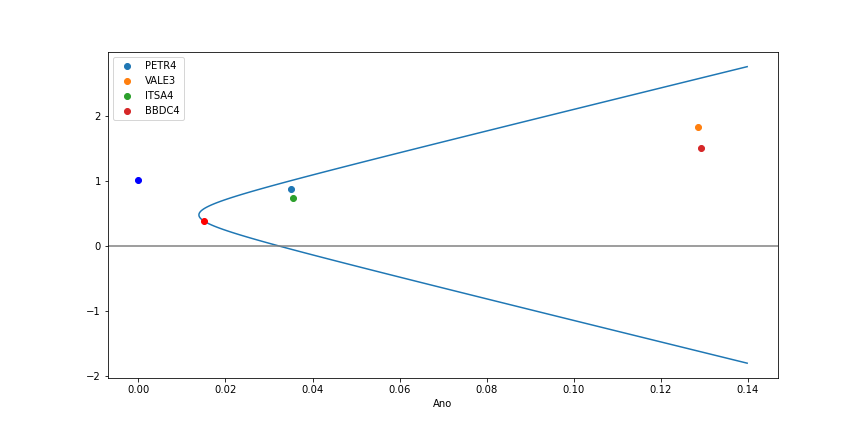
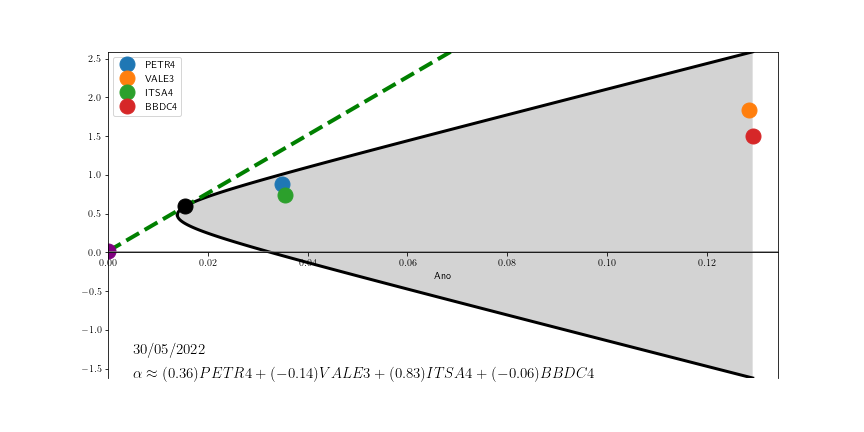
fronteira eficiente cesta brasileira

diff --git a/markowitz.py b/markowitz.py
@@ -15,10 +15,10 @@ from IPython.display import display
 from scipy.linalg import inv
 
 # Configurações matplotlib
-# plt.rc('text', usetex = True)
-# plt.rc('font', **{'family' : "sans-serif"})
-# params= {'text.latex.preamble' : [r'\usepackage{amsmath}']}
-# plt.rcParams.update(params)
+plt.rc('text', usetex = True)
+plt.rc('font', **{'family' : "sans-serif"})
+params= {'text.latex.preamble' : [r'\usepackage{amsmath}']}
+plt.rcParams.update(params)
 
 
 # font1 = {'size': 24,}
@@ -281,7 +281,7 @@ for x in stocks_data.index[period - 1:]:
 
 # Para obtermos o portfólio otimizado em relação ao Sharpe-ratio, precisamos do valor da taxa livre de risco naquele período. Vamos utilizar como de costume, a taxa selic
 
-# %%
+# %% Obtendo dados da taxa livre de risco
 selic_data = pd.read_csv('consulta_selic_b3.txt', sep='	', decimal=',')
 
 # Transformando as dadas de texto para datetime
@@ -298,7 +298,9 @@ full_data = full_data.set_index('Date')
 # queremos calcular o retorno da taxa selic ao longo da nossa janela de tempo. Para isso, vamos calcular o produto cumulativo de (1 + x/100) com x sendo o respectivo retorno diário da taxa selic 
 full_data['SELIC_daylly'] = full_data['Taxa SELIC'].apply(lambda x: (1 + x/100)**(1/365))
 
-full_data['r_SELIC'] = full_data['SELIC_daylly'].rolling(window = period).apply(np.prod)
+# note que o retorno da taxa Selic está acrescido de 1, pois estamos trabalhando com a fórmula de juros compostos
+full_data['r_SELIC'] = full_data['SELIC_daylly'].rolling(window = period).apply(np.prod) - 1
+
 
 # %%
 # plot evolução da taxa selic anual
@@ -375,46 +377,76 @@ l2 = -R12*m/d + R11/d
 # obtendo a alocação do portfólio eficiente
 alpha = l1*inv_corr@stocks_data.loc[a, mean_cols].values + l2*inv_corr@np.ones(len(my_tickers))
 
+# Alocação para escrever no plot da fronteira
+aloc = alpha.round(2)
+
 # plotando os ativos no plano e exibindo a fronteira eficiente
 
 # posição dos ativos no plano Sharpe
 var_assets = stocks_data.loc[a, var_cols].values
 returns_assets = stocks_data.loc[a, mean_cols].values
 
-# obtendo a fronteira eficiente usando as parametrizações
-t = np.linspace(-3, 3, 100)
+### obtendo a fronteira eficiente usando as parametrizações.
+
+# Obtendo os valores extremos do parâmetro t
+t_max = np.arccosh(np.sqrt(stocks_data.loc[a, var_cols].values).max()/np.sqrt(full_data.loc[a, 'c'] - full_data.loc[a, 'b']**2/4/full_data.loc[a, 'a']))
+
+# definindo o parâmetro t
+t = np.linspace(0, t_max, 100)
+
+# calculando as componentes da fronteira eficiente
+t = np.linspace(0, t_max, 100)
+
+# calculando as componentes da fronteira eficiente (metade superior e inferior)
 var = np.sqrt(full_data.loc[a, 'c'] - full_data.loc[a, 'b']**2/4/full_data.loc[a, 'a'])*np.cosh(t)
-mu = np.sqrt(full_data.loc[a, 'c'] - full_data.loc[a, 'b']**2/4/full_data.loc[a, 'a'])/np.sqrt(full_data.loc[a, 'a'])*np.sinh(t) - full_data.loc[a, 'b']/2/full_data.loc[a, 'a']
+
+mu_p = np.sqrt(full_data.loc[a, 'c'] - full_data.loc[a, 'b']**2/4/full_data.loc[a, 'a'])/np.sqrt(full_data.loc[a, 'a'])*np.sinh(t) - full_data.loc[a, 'b']/2/full_data.loc[a, 'a']
+
+mu_n = np.sqrt(full_data.loc[a, 'c'] - full_data.loc[a, 'b']**2/4/full_data.loc[a, 'a'])/np.sqrt(full_data.loc[a, 'a'])*np.sinh(-t) - full_data.loc[a, 'b']/2/full_data.loc[a, 'a']
 
 
 # %%
 fig, ax = plt.subplots(nrows = 1, ncols = 1, figsize = (12,6))
 
-ax.plot(var, mu)
+# Fronteira Eficiente
+ax.plot(var, mu_n, color = 'black', linewidth = 3)
+ax.plot(var, mu_p, color = 'black', linewidth = 3)
+ax.fill_between(var, mu_n, mu_p, facecolor = 'lightgray')
+
+#reta Sharpe
+t2 = np.linspace(0,5, 100)
+ax.plot(np.sqrt(full_data.loc[a, 'var_ef'])*t2, (full_data.loc[a, 'r_ef'] - full_data.loc[a, 'r_SELIC'])*t2 + full_data.loc[a, 'r_SELIC'], 'g', linestyle = 'dashed', linewidth = 4)
+
 # ponto portfólio eficiente
-ax.plot(np.sqrt(full_data.loc[a, 'var_ef']), full_data.loc[a, 'r_ef'], 'or')
+ax.plot(np.sqrt(full_data.loc[a, 'var_ef']), full_data.loc[a, 'r_ef'], 'ok', markersize = 15)
 
 # ativo livre de risco
-ax.plot(0, full_data.loc[a, 'r_SELIC'], 'ob')
-# ax[0].set_yticks(list(range(9)))
-# ax[0].set_yticklabels(['0', '', '2', '', '4', '', '6', '',''])
-
+ax.plot(0, full_data.loc[a, 'r_SELIC'], 'o', markersize = 15, color = 'purple')
 
 # ativos na cesta
+u = ''
 for i in range(len(my_tickers)):
-    ax.scatter(np.sqrt(stocks_data.loc[a, var_cols[i]]), stocks_data.loc[a, mean_cols[i]], label = my_tickers[i][:-3])
+    ax.plot(np.sqrt(stocks_data.loc[a, var_cols[i]]), stocks_data.loc[a, mean_cols[i]], 'o', markersize = 15, label = my_tickers[i][:-3])
+
+    # Alocação
+    u = u + '(' + str(aloc[i]) + ')' + my_tickers[i][:-3] + ' + '
+
+ax.text(0.005, mu.min(), r'$\alpha \approx' + u[:-3] + '$', fontdict = {'size': 15})
+
+# Data
+ax.text(0.005, mu.min() + 0.3, r'$' + a.strftime('%d/%m/%Y') + '$', fontdict = {'size': 15})
 
 ax.axhline(0, color = 'gray')
 ax.set_xlabel('Ano')
+ax.set_xlim(0, var.max() + 0.005)
+ax.set_ylim(mu.min(), mu.max())
+ax.spines['bottom'].set_position('zero') #colocando eixo x sobre 0
 ax.legend()
 plt.subplots_adjust(wspace = 0, hspace = 0)
 plt.show()
 fig.savefig('ef_br.png')
 
-
-
-
-
+# TODO fazer vídeo com a evolução das fronteiras eficientes
 
 
 
@@ -578,3 +610,180 @@ sns.heatmap(stocks_data[my_tickers].corr(), annot = True, cmap = 'viridis')
 plt.savefig('corr_us.png')
 
 # %%
+# Para obtermos o portfólio otimizado em relação ao Sharpe-ratio, precisamos do valor da taxa livre de risco naquele período. Vamos utilizar a treasure americana
+
+# Obtendo dados da taxa livre de risco
+selic_data = pd.read_csv('consulta_selic_b3.txt', sep='	', decimal=',')
+
+# Transformando as dadas de texto para datetime
+selic_data['Date'] = pd.to_datetime(selic_data['Data'], dayfirst= True, yearfirst=True)
+
+selic_data = selic_data.drop(columns= 'Data')
+
+# Agora, vamos juntar os dados de preço de ações com os dados da taxa selic
+
+full_data = pd.merge(stocks_data[['a', 'b', 'c']], selic_data, on = 'Date', how = 'left')
+
+full_data = full_data.set_index('Date')
+
+# queremos calcular o retorno da taxa selic ao longo da nossa janela de tempo. Para isso, vamos calcular o produto cumulativo de (1 + x/100) com x sendo o respectivo retorno diário da taxa selic 
+full_data['SELIC_daylly'] = full_data['Taxa SELIC'].apply(lambda x: (1 + x/100)**(1/365))
+
+# note que o retorno da taxa Selic está acrescido de 1, pois estamos trabalhando com a fórmula de juros compostos
+full_data['r_SELIC'] = full_data['SELIC_daylly'].rolling(window = period).apply(np.prod) - 1
+
+
+# %%
+# plot evolução da taxa selic anual
+fig, ax = plt.subplots(nrows = 1, ncols = 1, figsize = (12,6))
+
+ax.plot(full_data.index.values, full_data['Taxa SELIC'].values, color = 'blue', linewidth = 3)
+# for x in [2008, 2015, 2011, 2020]:
+#         ax.axvspan(index_data.index.values[np.where(index_data.index.year.values == x)[0][0]], index_data.index.values[np.where(index_data.index.year.values == x)[0][-1]], facecolor = 'gray')
+ax.set_ylabel(r'$r (\%  \ Ano)$')
+ax.set_xlim([np.datetime64(dt(int(str(full_data.index.values[0])[0:4]), int(str(full_data.index.values[0])[5:7]), int(str(full_data.index.values[0])[8:10])) - timedelta(days = 50)), np.datetime64(dt(int(str(full_data.index.values[- 1])[0:4]), int(str(full_data.index.values[-1])[5:7]), int(str(full_data.index.values[-1])[8:10])) + timedelta(days = 50))])
+# ax.set_ylim([0, 1])
+ax.set_xlabel('Ano')
+# ax.legend()
+plt.subplots_adjust(wspace = 0, hspace = 0)
+plt.show()
+fig.savefig('selic_br.png')
+
+# %%
+# cálculo da cruvatura no ponto inicial da parametrização, t = 0
+
+full_data['k1'] = full_data['a']/np.sqrt(full_data['c'] - full_data['b']**2/full_data['a']/4)
+
+# cálculo da curvatura no ponto em que o retorno do ponto na fronteira eficiente é nulo, vértice da hipérbole
+
+full_data['k2'] = (full_data['a']*full_data['c'] - full_data['b']**2/4)/((4*full_data['a']*full_data['c'] + full_data['b']**2)/(4*full_data['a']) +  full_data['b']**2/4)
+
+
+# cálculo do retorno e variância do portfólio eficiente
+full_data['r_ef'] = -(full_data['r_SELIC']*full_data['b'] + 2*full_data['c'])/(2*full_data['r_SELIC']*full_data['a'] + full_data['b'])
+
+full_data['var_ef'] = (4*full_data['a']*full_data['c'] - full_data['b']**2)*(full_data['a']*full_data['r_SELIC']**2 + full_data['b']*full_data['r_SELIC'] + full_data['c'])/(2*full_data['r_SELIC']*full_data['a'] + full_data['b'])**2
+
+# cálculo da curvatura da hipérbole no portfólio eficiente
+full_data['k3'] = (full_data['a']*full_data['c'] - full_data['b']**2/4)/(full_data['var_ef'] + (full_data['a']*full_data['r_ef'] + full_data['b']/2)**2)**(3/2)
+
+full_data = full_data.dropna()
+# %%
+# Plot  curvatura, cesta brasileira
+for y in ['k1', 'k2', 'k3']:
+    fig, ax = plt.subplots(nrows = 1, ncols = 1, figsize = (12,6))
+
+    ax.plot(full_data.index.values, np.abs(full_data[y].values), color = 'blue')
+    for x in [2008, 2015, 2011, 2020]:
+            ax.axvspan(index_data.index.values[np.where(index_data.index.year.values == x)[0][0]], index_data.index.values[np.where(index_data.index.year.values == x)[0][-1]], facecolor = 'gray')
+    # ax.axhline(0.4)
+    ax.set_ylabel(r'Curvatura,  $k(\sigma, \mu)$')
+    ax.set_xlim()
+    
+    # TODO
+    # colocar alocaçao no gráfico
+
+    # ax.set_ylim([0, 1])
+    ax.set_xlabel('Ano')
+    # ax.legend()
+    plt.subplots_adjust(wspace = 0, hspace = 0)
+    plt.show()
+    fig.savefig(y + '_br_basket.png')
+
+
+# %%
+# Exemplo de fronteira eficiente com ativos marcados no plano "Sharpe" (estamos realizando este cálculo aqui, para coletar o último valor válido das curvaturas)
+
+# obtendo a alocação do portfólio eficiente no último dia do registro
+
+# coletanto o índice do último registro válido das curvaturas
+a = full_data.index[-1]
+
+
+# retorno do portfólio eficiente e multiplicadores de Lagrange
+m = full_data.loc[a, 'r_ef'] 
+l1 = R22*m/d - R12/d
+l2 = -R12*m/d + R11/d
+
+# obtendo a alocação do portfólio eficiente
+alpha = l1*inv_corr@stocks_data.loc[a, mean_cols].values + l2*inv_corr@np.ones(len(my_tickers))
+
+# plotando os ativos no plano e exibindo a fronteira eficiente
+
+# posição dos ativos no plano Sharpe
+var_assets = stocks_data.loc[a, var_cols].values
+returns_assets = stocks_data.loc[a, mean_cols].values
+
+### obtendo a fronteira eficiente usando as parametrizações.
+
+# Obtendo os valores extremos do parâmetro t
+t_max = np.arccosh(np.sqrt(stocks_data.loc[a, var_cols].values).max()/np.sqrt(full_data.loc[a, 'c'] - full_data.loc[a, 'b']**2/4/full_data.loc[a, 'a']))
+
+# definindo o parâmetro t
+t = np.linspace(0, t_max, 100)
+
+# calculando as componentes da fronteira eficiente
+t = np.linspace(0, t_max, 100)
+
+# calculando as componentes da fronteira eficiente (metade superior e inferior)
+var = np.sqrt(full_data.loc[a, 'c'] - full_data.loc[a, 'b']**2/4/full_data.loc[a, 'a'])*np.cosh(t)
+
+mu_p = np.sqrt(full_data.loc[a, 'c'] - full_data.loc[a, 'b']**2/4/full_data.loc[a, 'a'])/np.sqrt(full_data.loc[a, 'a'])*np.sinh(t) - full_data.loc[a, 'b']/2/full_data.loc[a, 'a']
+
+mu_n = np.sqrt(full_data.loc[a, 'c'] - full_data.loc[a, 'b']**2/4/full_data.loc[a, 'a'])/np.sqrt(full_data.loc[a, 'a'])*np.sinh(-t) - full_data.loc[a, 'b']/2/full_data.loc[a, 'a']
+
+
+# %%
+fig, ax = plt.subplots(nrows = 1, ncols = 1, figsize = (12,6))
+
+# Fronteira Eficiente
+ax.plot(var, mu_n, color = 'black', linewidth = 3)
+ax.plot(var, mu_p, color = 'black', linewidth = 3)
+ax.fill_between(var, mu_n, mu_p, facecolor = 'lightgray')
+
+#reta Sharpe
+t2 = np.linspace(0,5, 100)
+ax.plot(np.sqrt(full_data.loc[a, 'var_ef'])*t2, (full_data.loc[a, 'r_ef'] - full_data.loc[a, 'r_SELIC'])*t2 + full_data.loc[a, 'r_SELIC'], 'g', linestyle = 'dashed', linewidth = 4)
+
+# ponto portfólio eficiente
+ax.plot(np.sqrt(full_data.loc[a, 'var_ef']), full_data.loc[a, 'r_ef'], 'ok', markersize = 15)
+
+# ativo livre de risco
+ax.plot(0, full_data.loc[a, 'r_SELIC'], 'o', markersize = 15, color = 'purple')
+
+# ativos na cesta
+for i in range(len(my_tickers)):
+    ax.plot(np.sqrt(stocks_data.loc[a, var_cols[i]]), stocks_data.loc[a, mean_cols[i]], 'o', markersize = 15, label = my_tickers[i][:-3])
+
+ax.axhline(0, color = 'gray')
+ax.set_xlabel('Ano')
+ax.set_xlim(0, var.max() + 0.005)
+ax.set_ylim(mu.min(), mu.max())
+ax.spines['bottom'].set_position('zero') #colocando eixo x sobre 0
+ax.legend()
+plt.subplots_adjust(wspace = 0, hspace = 0)
+plt.show()
+fig.savefig('ef_br.png')
+
+
+
+
+# %% teste
+
+t = np.linspace(0, t_max, 100)
+
+# calculando as componentes da fronteira eficiente
+var = np.sqrt(full_data.loc[a, 'c'] - full_data.loc[a, 'b']**2/4/full_data.loc[a, 'a'])*np.cosh(t)
+
+mu_p = np.sqrt(full_data.loc[a, 'c'] - full_data.loc[a, 'b']**2/4/full_data.loc[a, 'a'])/np.sqrt(full_data.loc[a, 'a'])*np.sinh(t) - full_data.loc[a, 'b']/2/full_data.loc[a, 'a']
+
+mu_n = np.sqrt(full_data.loc[a, 'c'] - full_data.loc[a, 'b']**2/4/full_data.loc[a, 'a'])/np.sqrt(full_data.loc[a, 'a'])*np.sinh(-t) - full_data.loc[a, 'b']/2/full_data.loc[a, 'a']
+
+fig, ax = plt.subplots(nrows = 1, ncols = 1, figsize = (12,6))
+ax.plot(var, mu_p)
+ax.plot(var, mu_n)
+ax.fill_between(var, mu_n, mu_p, facecolor = 'gray')
+y1 = mu[0:50]
+y2 = mu[50:]
+# ax.fill_between(var[0:50], y1, y2, where=y2 >= y1, facecolor='gray', interpolate=True)
+plt.show()

diff --git a/README.md b/README.md
@@ -79,13 +79,17 @@ Para utilizar o processo de otimização de Markowitz na forma mais básica, dev
 $$SR(M) =  \frac{\mu_M - r}{\sigma_M},$$
 onde $r$ é o retorno de um ativo livre de risco ($\sigma^2 = 0$), $\mu_M$ é o retorno do portfólio e $\sigma_M$ seu desvio-padrão.
 
-Geralmente utiliza-se a taxa básica de juros so país como ativo livre de risco. No Brasil, a taxa básica é a taxa SELIC. No gráfico abaixo, podemos ver a evolução do retorno anual da taxa SELIC.
+Geralmente utiliza-se a taxa básica de juros so país como ativo livre de risco. No Brasil, a taxa básica é a taxa Selic. No gráfico abaixo, podemos ver a evolução do retorno anual da taxa Selic.
 
 <div style="text-align:center"><img src = "selic_br.png" /></div>
 
 
 
 ## A Fronteira Eficiente e a Curvatura
+
+De posse dos retornos anuais da taxa Selic, podemos obter os respectivos retornos diários. E, por fim, obter os retornos médios livres de risco na janela de tempo utilizada.
+
+Utilizando o processo de otimização de Markowitz descrito no apêndice, podemos determinar a fronteira eficiente, que pode ser visualizada na cor preta na imagem abaixo.
 
 <div style="text-align:center"><img src = "ef_br.png" /></div>
 
@@ -192,19 +196,19 @@ $$k(t) = \frac{\mu^\prime\sigma^{\prime\prime} - \mu^{\prime\prime}\sigma^\prime
 
 onde $\mu^\prime$ é a primeira derivada de $\mu$ em relação a $t$ e $\mu^{\prime\prime}$ é a segunda derivada em relação a $t$, analogamente para $\sigma^\prime$ e $\sigma^{\prime\prime}$.
 
-Felizmente as derivadas das funções trigonométricas hiperbólicas possuem relações recorrentes. Isto nos permite simplificar enormemente a expressão da curvatura
+Felizmente as derivadas das funções trigonométricas hiperbólicas possuem relações recorrentes. Isto nos permite simplificar enormemente a expressão geral da curvatura
 
 $$k(t)= \frac{a}{\sqrt{c - \frac{b^2}{4a}}} \left(\cosh^2(t) + a\sinh^2(t)\right)^{-\frac{3}{2}}.$$
 
-O primeiro ponto de interesse acontece quando $t=0$. Nesse caso, temos uma expressão muito simples para a curvatura
+O primeiro ponto de interesse para calcularmos a curvatura, é o um dos vértices da hipérbole. Utilizando nossa parametrização, vemos que o vérice corresponde ao ponto obtido quando $t=0$. Nesse caso, temos uma expressão muito simples para a curvatura
 
 $$k(0)= \frac{a}{\sqrt{c - \frac{b^2}{4a}}}.$$
 
-Mais ainda, podemos expressar a curvatura em termos de $\mu$ e $\sigma$
+Podemos ainda expressar a curvatura geral em termos de $\mu$ e $\sigma$
 
 $$k(\mu, \sigma) = \frac{ac - \frac{b^2}{4}}{\left(\sigma^2 + \left(a\mu + \frac{b}{2}\right)^2\right)^{\frac{3}{2}}}.$$
 Isto nos permitirá calcular a curvatura no ponto que representa o portfólio eficiente.
 
-Podemos ainda nos perguntar como é a curvatura no ponto em que a fronteira eficiente intercepta o eixo das abscissas. Isto é, quando $\mu(t)=0$. Isto nos permite obter o respectivo valor de $t$ e, em seguida, a variância desse ponto:
+Por fim, podemos nos perguntar como é a curvatura no ponto em que a fronteira eficiente intercepta o eixo das abscissas. Isto é, quando $\mu(t)=0$. Isto nos permite obter o respectivo valor de $t$ e, em seguida, a variância desse ponto:
 $$ \sigma^2 = \frac{4ac + b^2}{4a}.$$
 E assim, conseguimos obter a curvatura da hipérbole nesse ponto.
